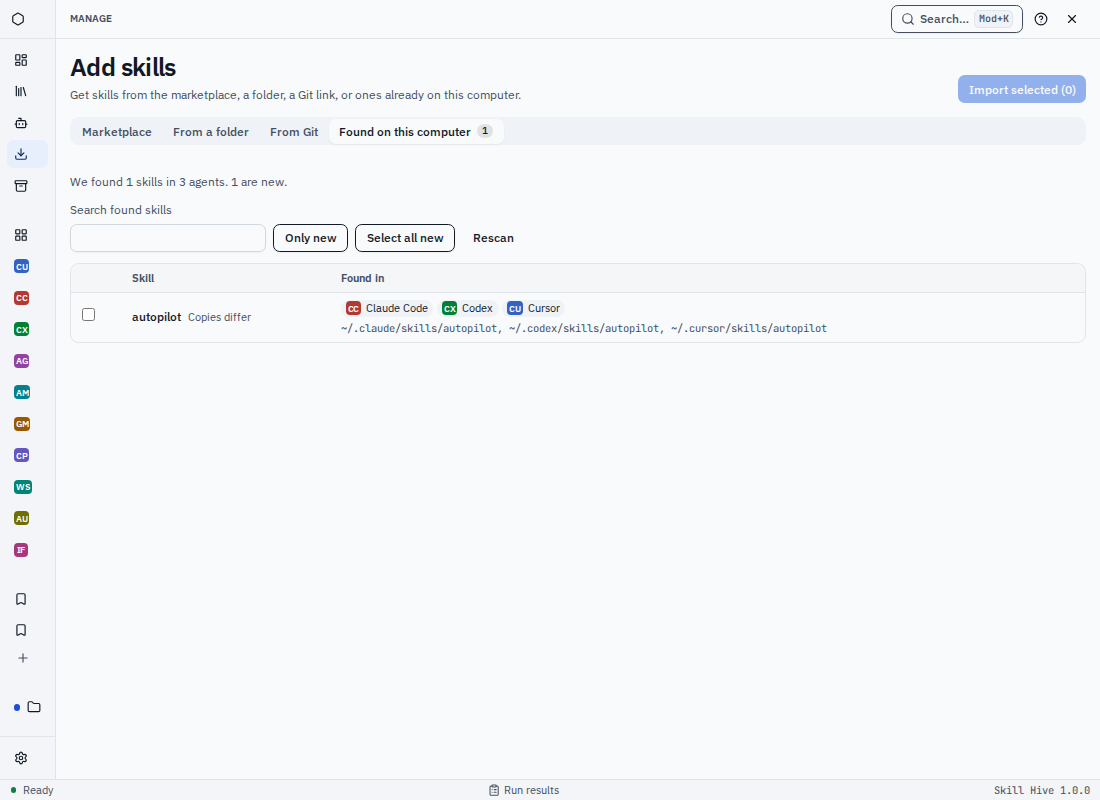
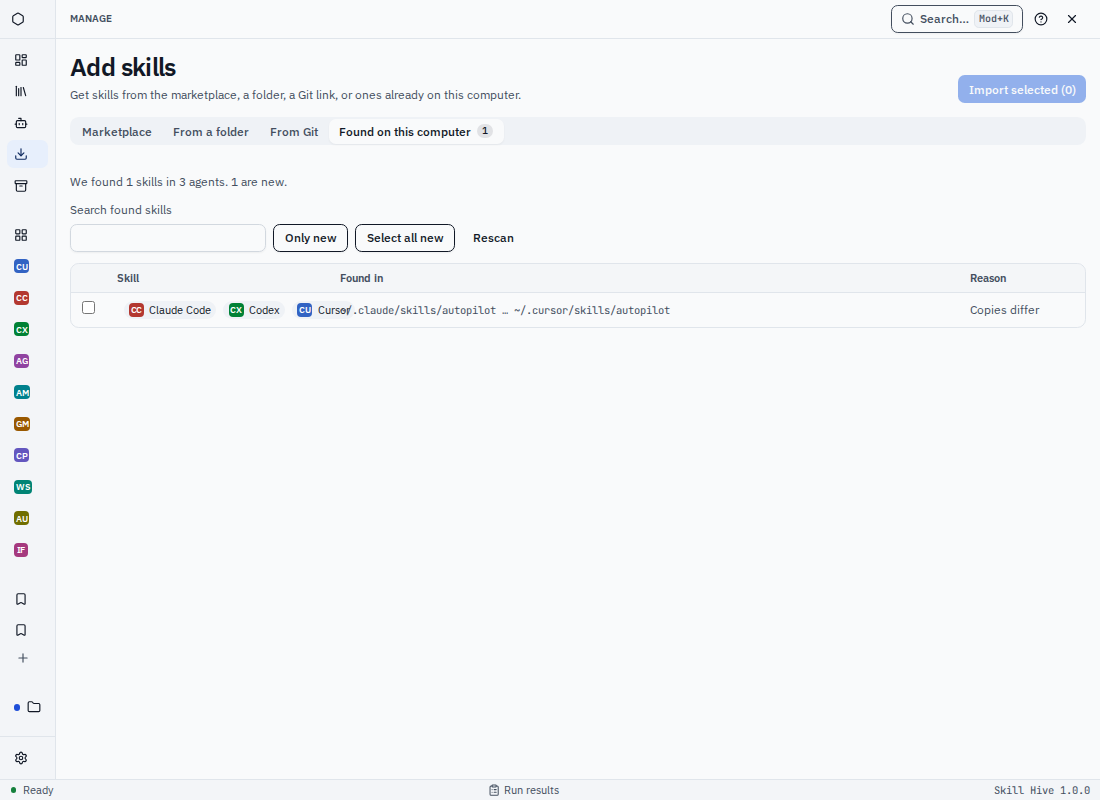
Format the cache changes and assert the one-line scan path.
cargo fmt was failing on Ubuntu, macOS, and Windows. The install scan check now reads the full path from the tooltip and the middle-ellipsis label on one line.

Changed region(s): [[0.0618, 0.3438, 0.7727, 0.4375], [0.8655, 0.3438, 0.9582, 0.4062]]

diff --git a/e2e/library-grid.spec.ts b/e2e/library-grid.spec.ts
@@ -152,7 +152,12 @@ for (const theme of ["light", "dark"] as const) {
     await prepare(page, theme, 1100, { "skill-hive-preview-agents": "1" });
     await page.goto("/install?tab=scan");
     const scan = page.getByTestId("install");
-    await expect(scan.getByText("~/.claude/skills/autopilot, ~/.codex/skills/autopilot, ~/.cursor/skills/autopilot")).toBeVisible();
+    const fullPath = "~/.claude/skills/autopilot · ~/.codex/skills/autopilot · ~/.cursor/skills/autopilot";
+    const path = scan.getByTitle(fullPath);
+    await expect(path).toBeVisible();
+    await expect(path).toHaveText("~/.claude/skills/autopilot … ~/.cursor/skills/autopilot");
+    const box = await path.boundingBox();
+    expect(box?.height ?? 99).toBeLessThan(24);
     await expect(page.getByRole("button", { name: "claude_code" })).toHaveCount(0);
     await expect(scan.getByText("Claude Code", { exact: true })).toBeVisible();
     await expect(scan.getByText("Codex", { exact: true })).toBeVisible();

diff --git a/crates/hive-core/src/core/sync_metadata.rs b/crates/hive-core/src/core/sync_metadata.rs
@@ -139,7 +139,13 @@ pub fn reindex_from_metadata(store: &SkillStore) -> Result<bool> {
 
 pub(crate) fn reindex_from_metadata_if_stale(store: &SkillStore) -> Result<bool> {
     if let Ok(stamp) = metadata_stamp() {
-        if store.get_setting(METADATA_STAMP_KEY).ok().flatten().as_deref() == Some(stamp.as_str()) {
+        if store
+            .get_setting(METADATA_STAMP_KEY)
+            .ok()
+            .flatten()
+            .as_deref()
+            == Some(stamp.as_str())
+        {
             return Ok(false);
         }
     }
@@ -174,7 +180,11 @@ fn metadata_stamp() -> Result<String> {
             .map(|elapsed| elapsed.as_millis())
             .unwrap_or(0);
         let relative = entry.path().strip_prefix(&metadata).unwrap_or(entry.path());
-        lines.push(format!("meta:{}:{modified}:{}", relative.display(), meta.len()));
+        lines.push(format!(
+            "meta:{}:{modified}:{}",
+            relative.display(),
+            meta.len()
+        ));
     }
     let root = central_repo::skills_dir();
     for skill in read_skill_files()? {
@@ -184,7 +194,9 @@ fn metadata_stamp() -> Result<String> {
         ));
         let dir = root.join(&skill.path);
         for file in super::content_hash::list_content_files(&dir) {
-            let len = std::fs::metadata(&file.path).map(|meta| meta.len()).unwrap_or(0);
+            let len = std::fs::metadata(&file.path)
+                .map(|meta| meta.len())
+                .unwrap_or(0);
             lines.push(format!(
                 "file:{}:{}:{}:{len}",
                 skill.skill_id,

diff --git a/crates/hive-core/src/core/app_state.rs b/crates/hive-core/src/core/app_state.rs
@@ -74,7 +74,9 @@ fn reindex_or_rebuild_metadata(store: &SkillStore) -> Result<bool> {
         // better record: rebuild the metadata from it. Otherwise keep refusing —
         // starting with an empty library would let the auto backup commit that
         // emptiness.
-        Err(err) if err.is::<sync_metadata::EmptySkillMetadata>() && db_library_is_intact(store) => {
+        Err(err)
+            if err.is::<sync_metadata::EmptySkillMetadata>() && db_library_is_intact(store) =>
+        {
             central_repo::record_startup_error(format!(
                 "sync metadata: {err}; rebuilt it from the database"
             ));

diff --git a/src-tauri/src/commands.rs b/src-tauri/src/commands.rs
@@ -3246,10 +3246,13 @@ pub fn remove_preset_by_id(store: &SkillStore, preset_id: &str) -> Result<(), Ap
 }
 #[cfg(test)]
 mod tests {
-    use super::{confirm_preview, invalidate_library_index, memory_index, preview_repository, remember_index, ManagedSkill, LIBRARY_DIRTY};
+    use super::{
+        confirm_preview, invalidate_library_index, memory_index, preview_repository,
+        remember_index, ManagedSkill, LIBRARY_DIRTY,
+    };
     use std::fs;
-    use std::sync::atomic::Ordering;
     use std::process::Command;
+    use std::sync::atomic::Ordering;
 
     #[test]
     fn invalidation_keeps_the_library_index() {

diff --git a/crates/hive-core/src/library/scanner.rs b/crates/hive-core/src/library/scanner.rs
@@ -116,7 +116,10 @@ pub fn scan_roots_with_central(
 }
 
 fn failed_skill(tool: &str, dir: &Path, reason: &str) -> ScannedSkill {
-    let folder = dir.file_name().and_then(|name| name.to_str()).unwrap_or("skill");
+    let folder = dir
+        .file_name()
+        .and_then(|name| name.to_str())
+        .unwrap_or("skill");
     ScannedSkill {
         tool: tool.to_string(),
         path: dir.to_string_lossy().to_string(),
